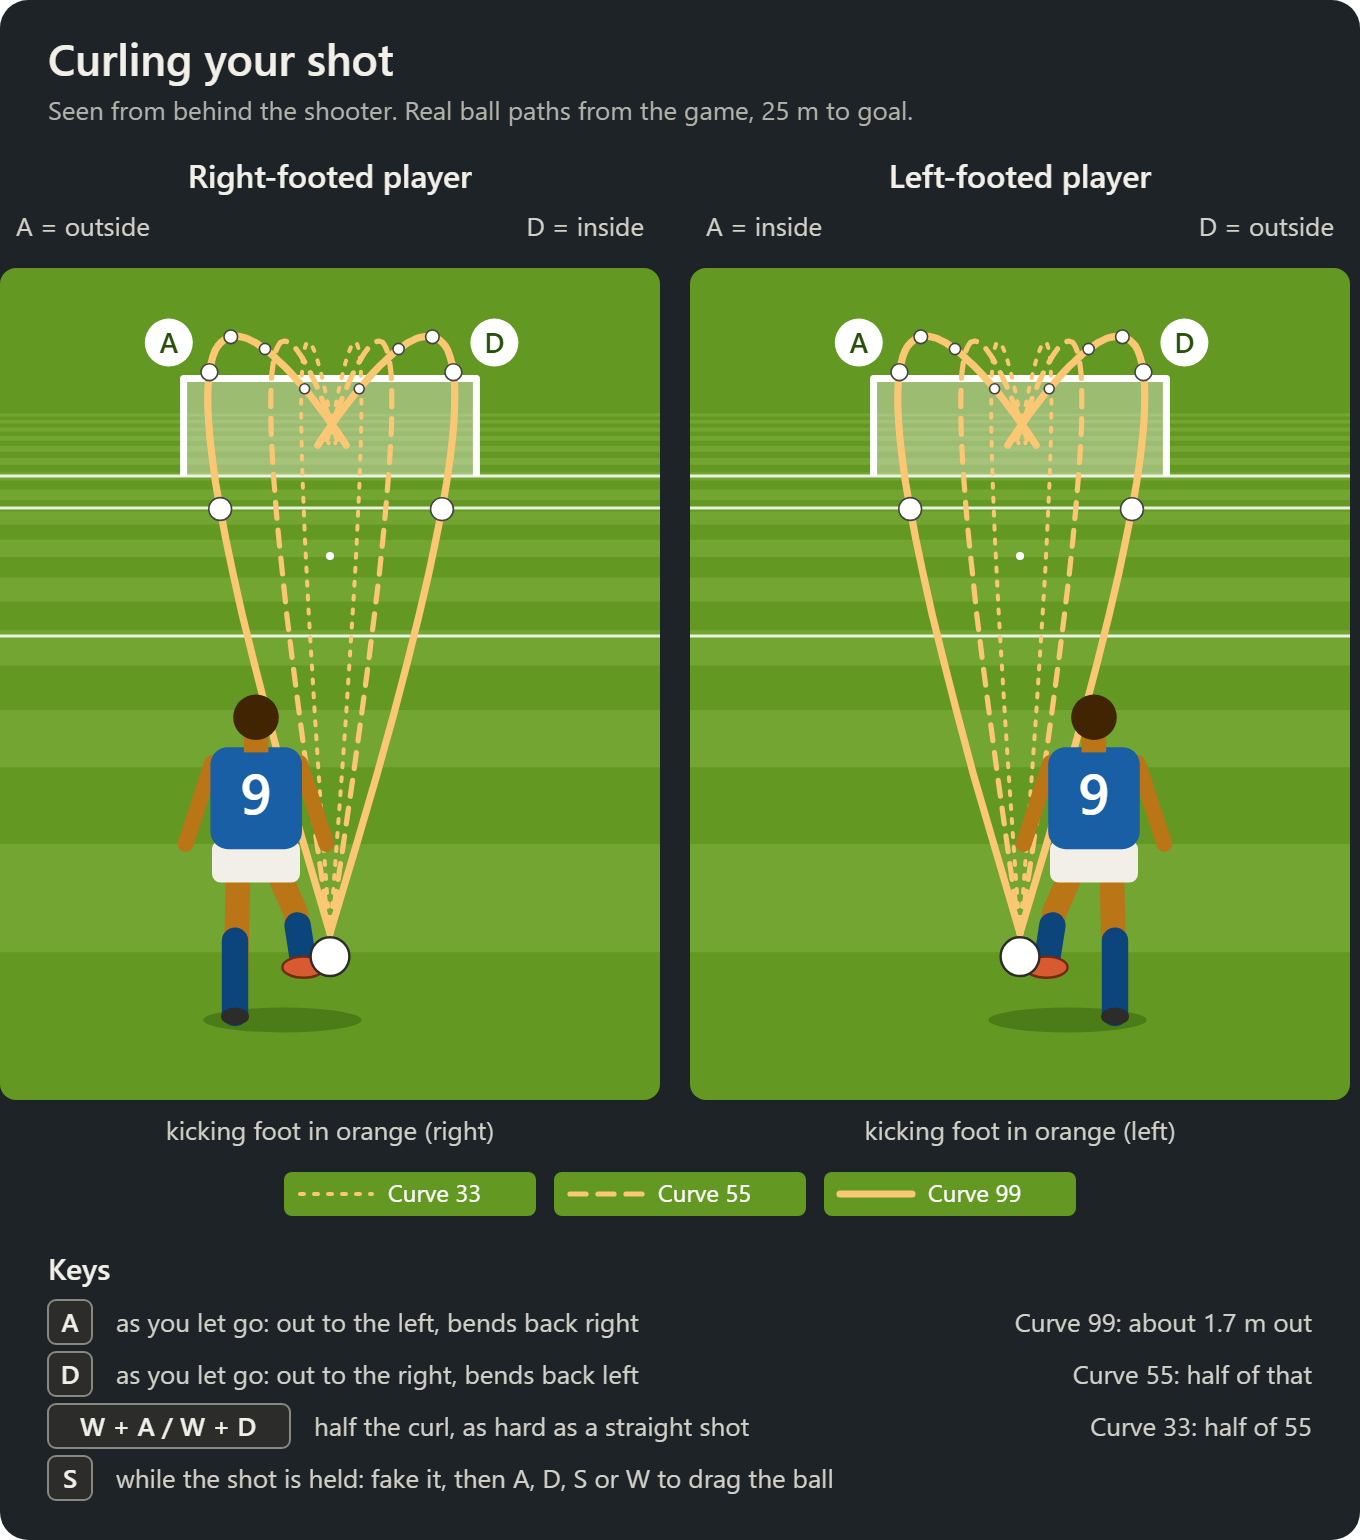
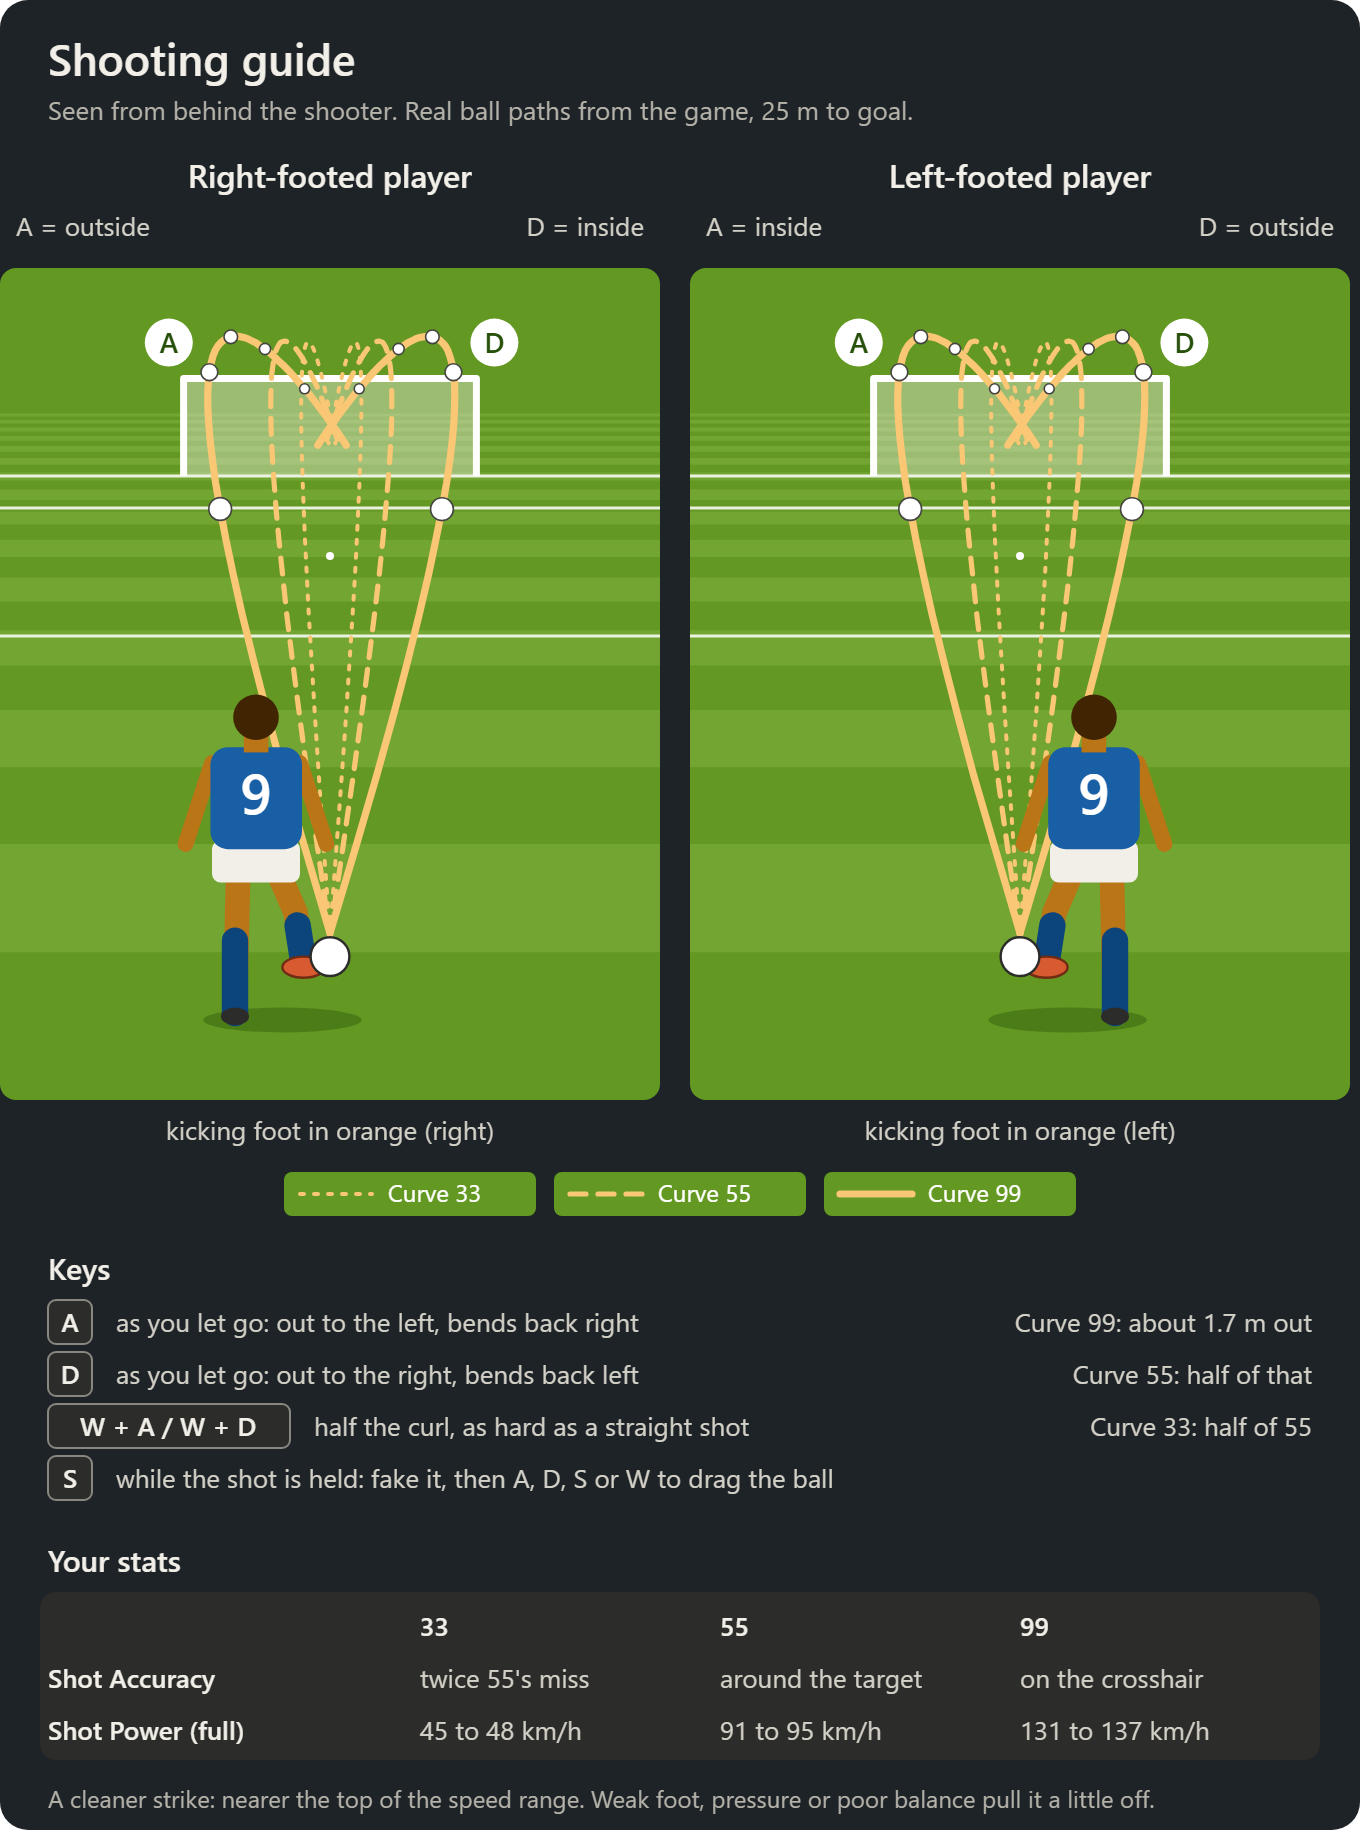
U28 Shot Accuracy and Shot Power scales for every player, a quicker flick, and the guide's stats
- Shot Accuracy (strike.js accSigma): none at 99, 1.5 degrees at 55, twice that at 33; the moment's own error (the
  weak foot, pressure, balance, breath) adds SHOT_ACC.SIT of its share even at 99.
- Shot Power (shotVFull): a full shot 131 to 137 km/h at 99, 91 to 95 at 55, half of 55's at 33. The speed is set by
  how clean the strike is (cleanOf, 2.3% either side of the middle), no longer drawn at random.
- The flick: its bar fills in 0.5 s (was 1); a flick on, to the side or over the head crosses the ground 1.4 times
  quicker (FLICK.FAST), a full one still topping out over a standing man (FLICK.H1 3.8, 2.1 m).
- The shooting guide shows what Shot Accuracy and Shot Power do.
- Tests: unit/strike moved to the new scales 54/54, u28-flick 6/6, u28-shot 10/10, u28-shotkeys, u28-flickfeel,
  u27-control, u26-keep pass; unit, lint, smoke, tr2, tr7, uf2 52 of 53 (uf2-feel's throw-in meter fails on origin
  too). Harness n=1000: 58 of 62, goals 2.87, on target 8.5, save rate 0.71.

diff --git a/LegendRising/js/life/football/strike.js b/LegendRising/js/life/football/strike.js
@@ -268,14 +268,16 @@ function result(sv, vDirect, yaw, el, ok, tFlight, apex, miss, iters){
 export function deviation(ctx, r){
   const s = sigmaOf(ctx), D = Math.max(0, +ctx.dist || 0), kind = ctx.kind || 'shot';
   const kv = ctx.contact > 0 ? STRIKE.KV.high : STRIKE.KV.normal;
-  const sv = SHOT_KINDS.has(kind) ? 0.04*(1 - clamp(ctx.power != null ? +ctx.power : 50, 0, 150)/150)
-    : ctx.weightSigma != null ? +ctx.weightSigma : 0.02;
+  // (U28: a shot's speed is not drawn at random: the cleaner the strike, the nearer the top of its range, SHOT_V.SPREAD
+  // either side of the middle; sv 0. A pass keeps its weight's spread)
+  const shot = SHOT_KINDS.has(kind);
+  const sv = shot ? 0 : ctx.weightSigma != null ? +ctx.weightSigma : 0.02;
   // (ctx.z: the three unit draws made earlier, devDraws(); a kick draws them as the swing starts so that its solve can
   // run through the swing toward the point it will be aimed at)
   const z = ctx.z && ctx.z.length === 3 ? ctx.z : null;
   const ex = D*s*(z ? z[0] : truncNormal(r, 1, 2.5));
   const ey = D*s*kv*(z ? z[1] : truncNormal(r, 1, 2.5));
-  const es = 1 + sv*(z ? z[2] : truncNormal(r, 1, 2.5));
+  const es = shot ? 1 + SHOT_V.SPREAD*(2*cleanOf(ctx) - 1) : 1 + sv*(z ? z[2] : truncNormal(r, 1, 2.5));
   return {ex, ey, es, s, sv};
 }
 // the three unit draws of a deviation (lateral, vertical, speed), truncated at 2.5, for ctx.z
@@ -283,7 +285,7 @@ export function devDraws(r){ return [truncNormal(r, 1, 2.5), truncNormal(r, 1, 2
 
 // the angular sigma (radians) of 1.5.3 for a context; no randomness
 export function sigmaOf(ctx){
-  const kind = ctx.kind || 'shot', acc = clamp(ctx.acc != null ? +ctx.acc : 50, 0, 100);
+  const kind = ctx.kind || 'shot', acc = clamp(ctx.acc != null ? +ctx.acc : 50, 0, 110);
   const bF = ctx.bF != null ? clamp(+ctx.bF, 0, 1) : 1, eF = ctx.eF != null ? clamp(+ctx.eF, 0, 1) : 1;
   const fatigue = 1 + 0.25*(1 - bF) + 0.35*(1 - eF);
   const pressure = 1 + 0.4*clamp(+ctx.pressure01 || 0, 0, 1)*(1 - clamp(ctx.composure != null ? +ctx.composure : 50, 0, 150)/150);
@@ -298,7 +300,10 @@ export function sigmaOf(ctx){
     const ball = STRIKE.BALL_STATE[ctx.ballState] || 1;
     const first = ctx.firstTime ? 1 + vIn/30 : 1;
     const fin = ctx.finesse ? 0.85 : 1;
-    return (0.007 + 0.053*pow(Math.max(0, 1 - acc/100), 1.2))*(0.6 + 0.8*p*p)*over*fatigue*pressure*foot*body*ball*first*fin*scuff;
+    // (U28, SHOT_ACC: none at 99, then doubling from 55 to 33; the moment's own error, the weak foot, pressure, being
+    // off balance or tired, adds SHOT_ACC.SIT of each of their shares over 1 even at 99)
+    const M = over*fatigue*pressure*foot*body*ball*first*fin*scuff;
+    return accSigma(ctx.acc != null ? +ctx.acc : 50)*(0.6 + 0.8*p*p)*M + SHOT_ACC.SIT*Math.max(0, M - 1);
   }
   return (0.006 + 0.05*pow(Math.max(0, 1 - acc/100), 1.4))*pressure*foot*body*fatigue*(ctx.firstTime ? 1.3 : 1)*scuff;
 }
@@ -399,8 +404,26 @@ export function flightTime(kind, d, v0, rollDecel = 1.1){
   return loftTime(TAB.loft, d, v0);
 }
 
-// the shot speed of 1.5.3: (18 + 0.17 power)*p, x1.04 with strike boots, times the stamina power factor
+// (U28) a full-power shot's speed by Shot Power, the middle of its range (m/s): 46.5 km/h at 33, 93 at 55, 134 at 99,
+// in straight lines between (SHOT_V.PTS), on at SHOT_V.HI a point past 99. A strike struck clean goes SHOT_V.SPREAD over
+// the middle, a poor one as much under it (deviation, cleanOf): 131 to 137 km/h at 99, 91 to 95 at 55
+export const SHOT_V = Object.freeze({PTS: Object.freeze([[0, 9], [33, 12.915], [55, 25.83], [99, 37.22]]), HI: 0.26, SPREAD: 0.023});
+export function shotVFull(power){
+  const P = SHOT_V.PTS, x = Math.max(0, +power || 0);
+  if (x >= P[P.length - 1][0]) return P[P.length - 1][1] + SHOT_V.HI*(x - P[P.length - 1][0]);
+  for (let i = 1; i < P.length; i++) if (x <= P[i][0]){ const [x0, y0] = P[i - 1], [x1, y1] = P[i]; return y0 + (y1 - y0)*(x - x0)/(x1 - x0); }
+  return P[0][1];
+}
+// how clean a strike is, 0 to 1: its plant, a scuff, the breath (as the kick event's strike grade, actions.js)
+export function cleanOf(ctx){
+  return clamp(1 - 1.8*Math.abs(+ctx.plantErr || 0) - (ctx.scuff ? 0.5 : 0) - 0.25*(1 - (ctx.bF != null ? clamp(+ctx.bF, 0, 1) : 1)), 0, 1);
+}
+// (U28) a shot's aim error by Shot Accuracy (radians, before the power, the moment and the situation): none at 99 (and
+// past it), SHOT_ACC.K at 55, twice that at 33: K ((99 - acc)/44)^EXP, EXP 1.7095113 (log 2/log 1.5) so that 33 is twice 55
+export const SHOT_ACC = Object.freeze({K: 0.026, EXP: 1.7095113, SIT: 0.012});
+export function accSigma(acc){ return SHOT_ACC.K*pow(Math.max(0, 99 - clamp(+acc || 0, 0, 110))/44, SHOT_ACC.EXP); }
+// the shot speed: shotVFull(power) p, x1.04 with strike boots, times the stamina power factor
 export function shotSpeed(power, p, strikeBoots = false, facPower = 1){
-  return (18 + 0.17*clamp(+power || 0, 0, 99))*clamp(+p || 0, 0, 1)*(strikeBoots ? 1.04 : 1)*(facPower == null ? 1 : facPower);
+  return shotVFull(power)*clamp(+p || 0, 0, 1)*(strikeBoots ? 1.04 : 1)*(facPower == null ? 1 : facPower);
 }
 

diff --git a/LegendRising/js/life/football/actions.js b/LegendRising/js/life/football/actions.js
@@ -775,13 +775,14 @@ function fakeStep(ms, a, act, h){
    left), first (a ball on its way to you, first time: the sombrero)}. The ball at your feet is touched FLICK.TC s on; a
    ball coming is waited for (FLICK.WAIT s at most) until it is within FLICK.REACH and low, and met as it arrives. The
    strength sets the lift and the way on: a light one pops it just over a sliding leg (FLICK.H0 m up, FLICK.D0 on), a full
-   one over a standing man or a keeper (FLICK.H1, FLICK.D1, more with Shot Power); back over your head goes higher and
+   one over a standing man or a keeper (FLICK.H1, FLICK.D1, more with Shot Power; FLICK.FAST quicker, so FLICK.FAST^2
+   lower at its top); back over your head goes higher and
    shorter (a rainbow); no key, a keepy-up for yourself. The skills set how near it goes to what was asked: q from Ball
    Control, Technique and Dribbling, less under pressure (Composure) and with your breath, and for the sombrero less
    for a faster ball (First Touch is Ball Control here); a poor touch now and then scuffs it along the grass. The touch
    is a real kick with the spin its contact gives (backspin under a chip, topspin over the head, sidespin to the side).
    It ends close control (run to it, F) */
-export const FLICK = Object.freeze({TC: .2, WAIT: 1.8, REACH: .85, DUR: .7, H0: .7, H1: 3.2, D0: 1.5, D1: 12, BACK_H: [1.6, 3], BACK_D: [2, 7],
+export const FLICK = Object.freeze({FAST: 1.4, TC: .2, WAIT: 1.8, REACH: .85, DUR: .7, H0: .7, H1: 3.8, D0: 1.5, D1: 12, BACK_H: [1.6, 3], BACK_D: [2, 7],
   KEEPY_H: [.6, 1.5], SOMB_D: .38, SOMB_H: 1.15, ERR_D: .35, ERR_A: 18*Math.PI/180, ERR_H: .3, SCUFF: .12, SPIN: 18});
 function startFlick(ms, a, rq){
   ctlOff(a, 'flick');
@@ -830,7 +831,13 @@ function flickStep(ms, a, act, h){
   const vx0 = ux*ca - uz*sa, vz0 = ux*sa + uz*ca;
   let vy, vh;
   if (scuff){ vy = .5; vh = Math.max(2, D*.6); }
-  else { vy = Math.sqrt(2*G*Math.max(.2, H)); vh = D/(2*vy/G); }
+  else {
+    // (U28 fix: it floated. Flicked on, to the side or over the head, it goes FLICK.FAST times quicker over the ground to
+    // the same spot, in FLICK.FAST times less time, so its arc is FLICK.FAST^2 lower than H; the keepy-up and the
+    // sombrero, which must pop up over the man, keep theirs)
+    const fast = keepy || act.first ? 1 : FLICK.FAST;
+    vy = Math.sqrt(2*G*Math.max(.2, H))/fast; vh = D/(2*vy/G);
+  }
   const v = {x: vx0*vh, y: vy, z: vz0*vh};
   // the spin its contact gives: backspin under a chip, topspin over the head, sidespin to the side
   const spin = FLICK.SPIN*(.5 + .5*p), rollx = vz0, rollz = -vx0;

diff --git a/LegendRising/js/life/football/fphud.js b/LegendRising/js/life/football/fphud.js
@@ -678,9 +678,9 @@ export function settingsHTML(o = {}){
   return `<div class="fp-set">${rows.map(([l, c]) => `<label>${esc(l)}</label><div class="fp-set-c">${c}</div>`).join("")}</div>` + GUIDE_HTML;
 }
 // (U28) the shooting guide under the settings, closed until opened: how A and D curl a shot for either foot by the Curve
-// skill, and the keys (img/curl-guide.png, drawn from the game's own ball paths)
-export const GUIDE_HTML = `<details class="fp-guide"><summary>Shooting guide: curl, power and the fake</summary>` +
-  `<img src="img/curl-guide.png" alt="A shot curled with A goes out to the left and bends back right; with D out to the right and back left. W with A or D: half the curl, as hard as a straight shot. S while the shot is held fakes it, then A, D, S or W drags the ball. Curve 99 bends about 1.7 m, 55 half of that, 33 half of 55." loading="lazy"></details>`;
+// skill, the keys, and what Shot Accuracy and Shot Power do (img/curl-guide.png, drawn from the game's own ball paths)
+export const GUIDE_HTML = `<details class="fp-guide"><summary>Shooting guide: curl, accuracy, power and the fake</summary>` +
+  `<img src="img/curl-guide.png" alt="A shot curled with A goes out to the left and bends back right; with D out to the right and back left. W with A or D: half the curl, as hard as a straight shot. S while the shot is held fakes it, then A, D, S or W drags the ball. Curve 99 bends about 1.7 m, 55 half of that, 33 half of 55. Shot Accuracy 99 goes on the crosshair, 55 around the target, 33 twice as wide; Shot Power 99 strikes it 131 to 137 km/h, 55 91 to 95, 33 45 to 48." loading="lazy"></details>`;
 export function fmtVal(k, v){
   if (k === "sens") return (+v).toFixed(2) + "x";
   if (k === "fov") return Math.round(v) + " degrees";

diff --git a/LegendRising/js/life/football/control.js b/LegendRising/js/life/football/control.js
@@ -98,7 +98,7 @@ ME.footCam = SET.footCam;
 // back over your head (a rainbow), A or D up and to that side, two of them that way between, none a keepy-up for
 // yourself. The ball at your feet, or a ball low (under the knee) on its way to you first time (a sombrero). The
 // engine plays it: actions.js startFlick
-export const FLICK_FULL = 1;
+export const FLICK_FULL = .5;
 function flick(ms, me, held){
   if (me.act){ noteWhy(ms, "busy"); return; }
   const b = ms.ball, d = Math.hypot(b.p.x - me.m.x, b.p.z - me.m.z), sc = me.scale || 1;

diff --git a/plan/notes/pc-u27.md b/plan/notes/pc-u27.md
@@ -177,6 +177,38 @@ still on screen.
 - **Open:**
   - `wpF-strike` (in no group) still reads the old reticle.
 
+## Shot Accuracy, Shot Power and the flick's speed (the user's last asks)
+
+These apply to every player, the AI too (`strike.js`).
+
+- **Accuracy:** a shot's aim error is `accSigma(acc)`, `SHOT_ACC.K ((99 - acc)/44)^1.7095`.
+  - That is none at 99 and past it, K (0.026 rad, 1.5 degrees) at 55, and twice that at 33.
+  - It goes times the power term and `M`, the moment (over-hit, fatigue, pressure, foot, body, ball state, first time,
+    finesse, scuff).
+  - On top, `SHOT_ACC.SIT (M - 1)`: at 99 the shot is on the point unless the weak foot, pressure, balance or breath
+    add a little.
+  - Headers and passes are as they were.
+- **Power:** a full shot is `shotVFull(power)`, straight lines through 33: 46.5 km/h, 55: 93 and 99: 134 (and 9 m/s
+  at 0), 0.26 m/s a point past 99.
+  - The speed is no longer drawn at random: `deviation` sets it by `cleanOf` (plant, scuff, breath), `SHOT_V.SPREAD`
+    (2.3%) either side of the middle.
+  - That gives 131 to 137 km/h at 99 and 91 to 95 at 55.
+- **The flick:**
+  - `FLICK_FULL` is 0.5 s (the bar fills twice as fast).
+  - `FLICK.FAST` 1.4: a flick on, to the side or a rainbow crosses the ground 1.4 times quicker to the same spot, its
+    arc 1.96 times lower. `FLICK.H1` goes 3.2 to 3.8, so a full one still tops out at 2.1 m.
+  - The keepy-up and the sombrero keep their pop.
+- **Tests:** `unit/strike` moved to the new scales (54/54), `u28-flick` 6/6, `u28-shot` 10/10.
+  - The browser groups unit, lint, smoke, tr2, tr7 and uf2 pass (52 of 53; `uf2-feel`'s throw-in meter fails on origin
+    too), as do `u28-shotkeys`, `u28-flickfeel`, `u27-control` and `u26-keep`.
+- **Harness n=1000 on the final code: 58 of 62.**
+  - Goals 2.87 (back inside 2.9), on target 8.5, save rate 0.71.
+  - Failing:
+    - W touches 28.7 (old);
+    - ST touches 22.05 against 22;
+    - ST defensive actions 4.14 against 4;
+    - headers on target 4.04 against 4.
+
 ## Fixes from the final test run
 
 - **A sprinting receiver lost the ball.** In `tr2b-receive`, a sprint into a 14 m/s pass at Ball Control 50 kept the
